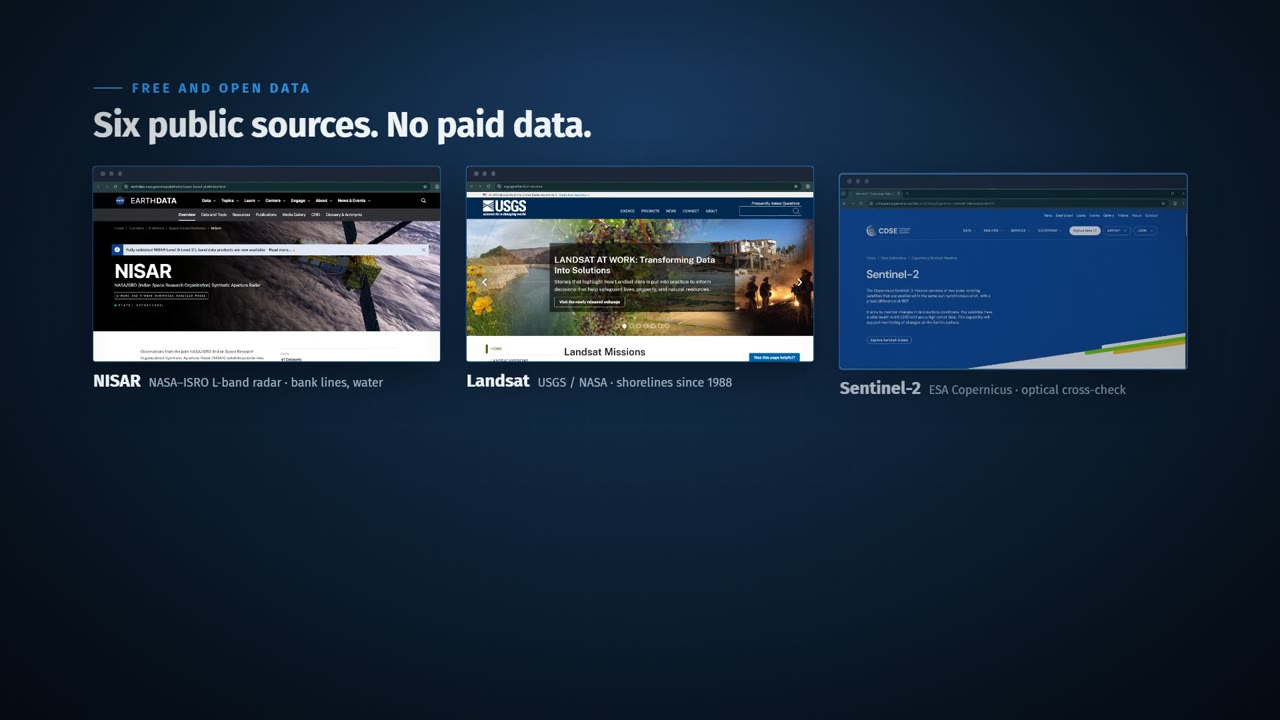
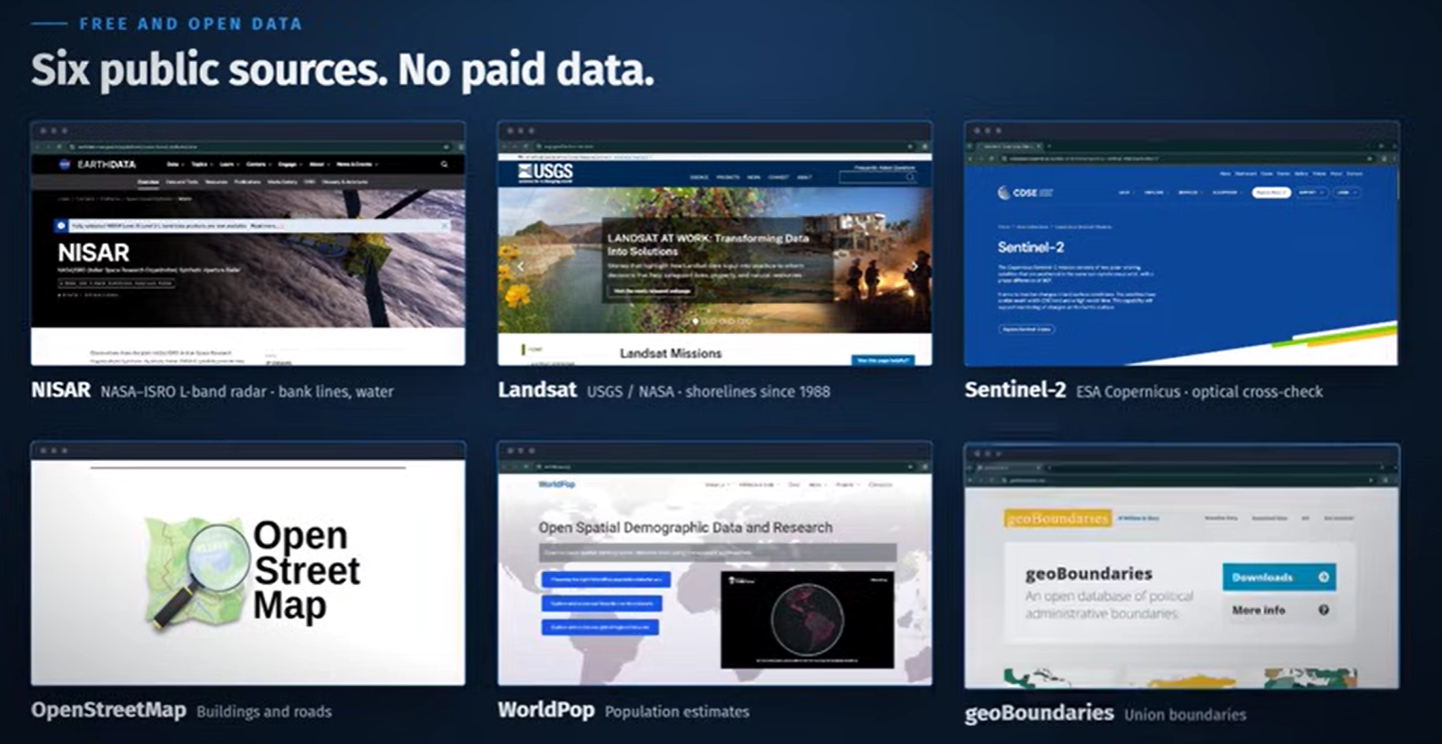
docs: update team section and replace team images

diff --git a/README.md b/README.md
@@ -319,14 +319,7 @@ Details and numbers: `/method` in the app and `docs/DECISIONS.md`.
 
 Team **Nova Logits**, NASA Space Apps Challenge 2026, Khulna local event.
 
-<table>
-  <tr>
-    <td align="center" width="25%"><img src="docs/campaign/video-v3/public/team/pritom.jpg" width="150" alt="Pritom Banik"><br><b>Pritom Banik</b><br>Team Leader<br><sub>Project Management</sub></td>
-    <td align="center" width="25%"><img src="docs/campaign/video-v3/public/team/arka.jpg" width="150" alt="Arka Braja Prasad Nath"><br><b>Arka Braja Prasad Nath</b><br>Lead Developer<br><sub>Technical Architect</sub></td>
-    <td align="center" width="25%"><img src="docs/campaign/video-v3/public/team/megha.jpg" width="150" alt="Megha Tania"><br><b>Megha Tania</b><br>UI/UX Designer<br><sub>Presenter</sub></td>
-    <td align="center" width="25%"><img src="docs/campaign/video-v3/public/team/enam.jpg" width="150" alt="Md Enam E Elahi"><br><b>Md Enam E Elahi</b><br>Researcher<br><sub>Data Analyst</sub></td>
-  </tr>
-</table>
+
 
 <p align="center">
   <img src="docs/media/team-slide.jpg" alt="Team Nova Logits" width="80%">
